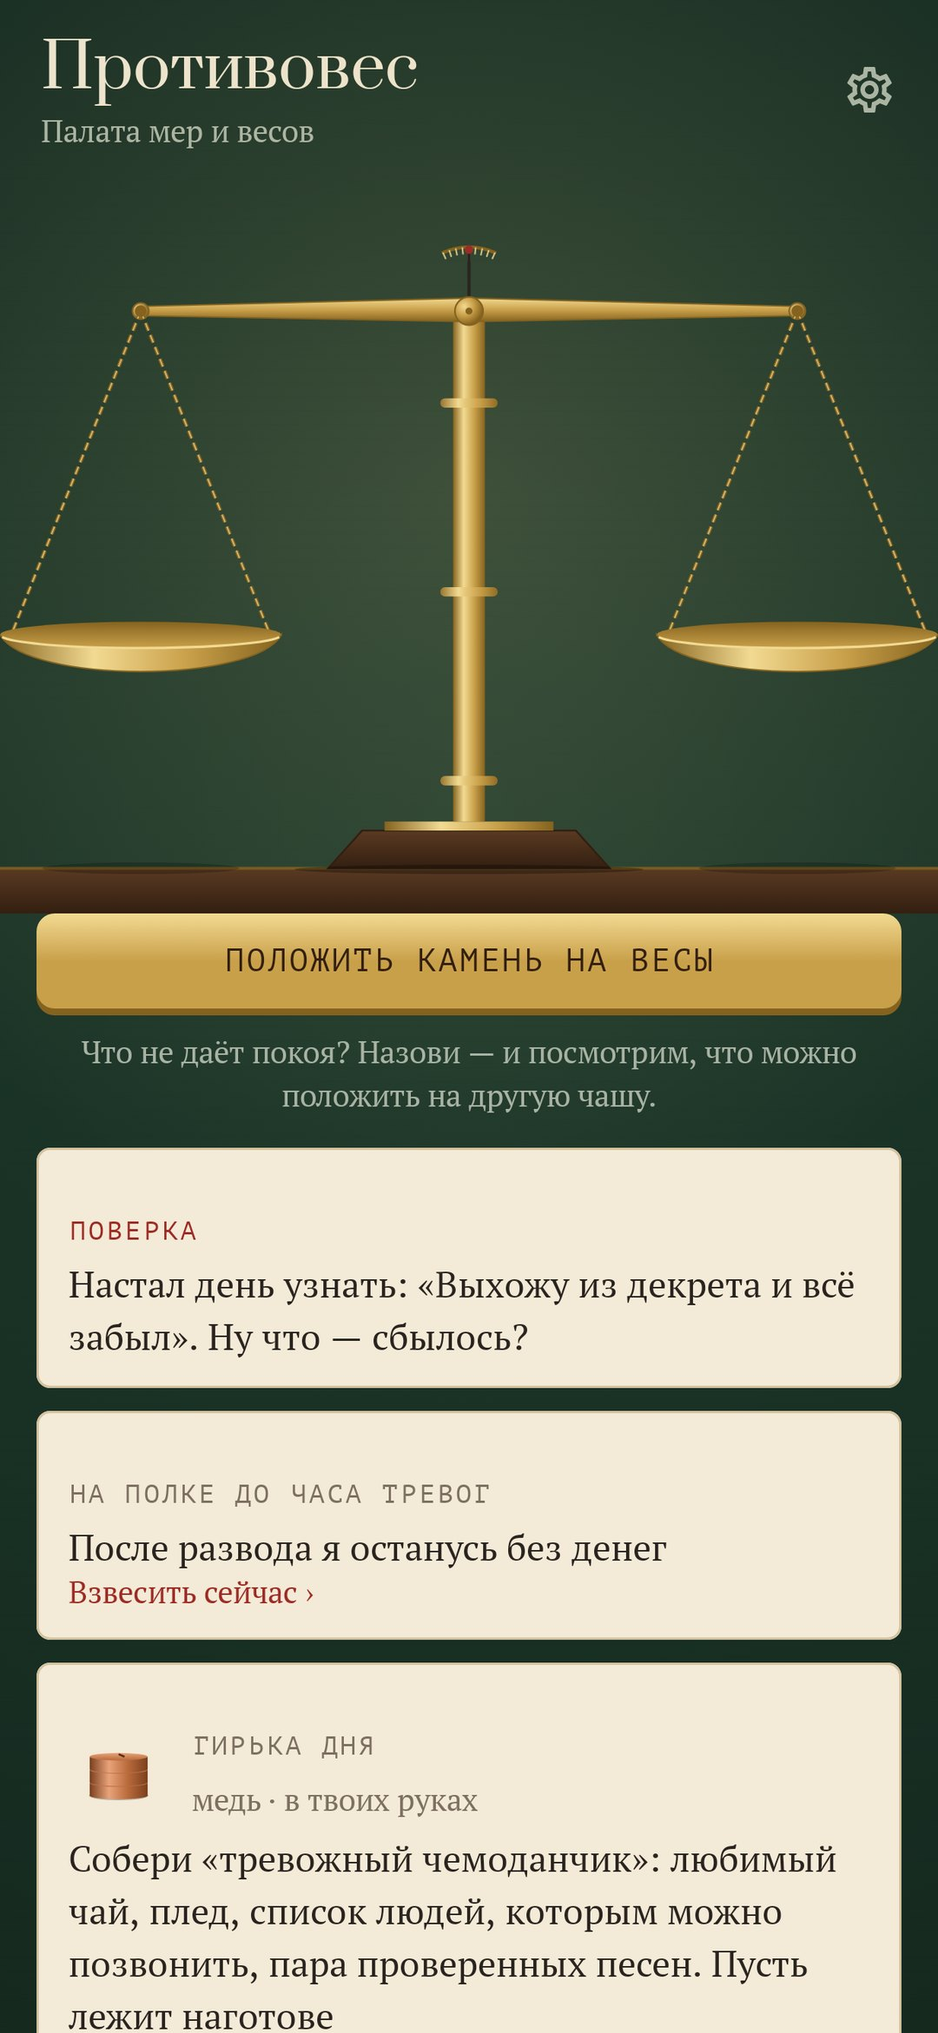
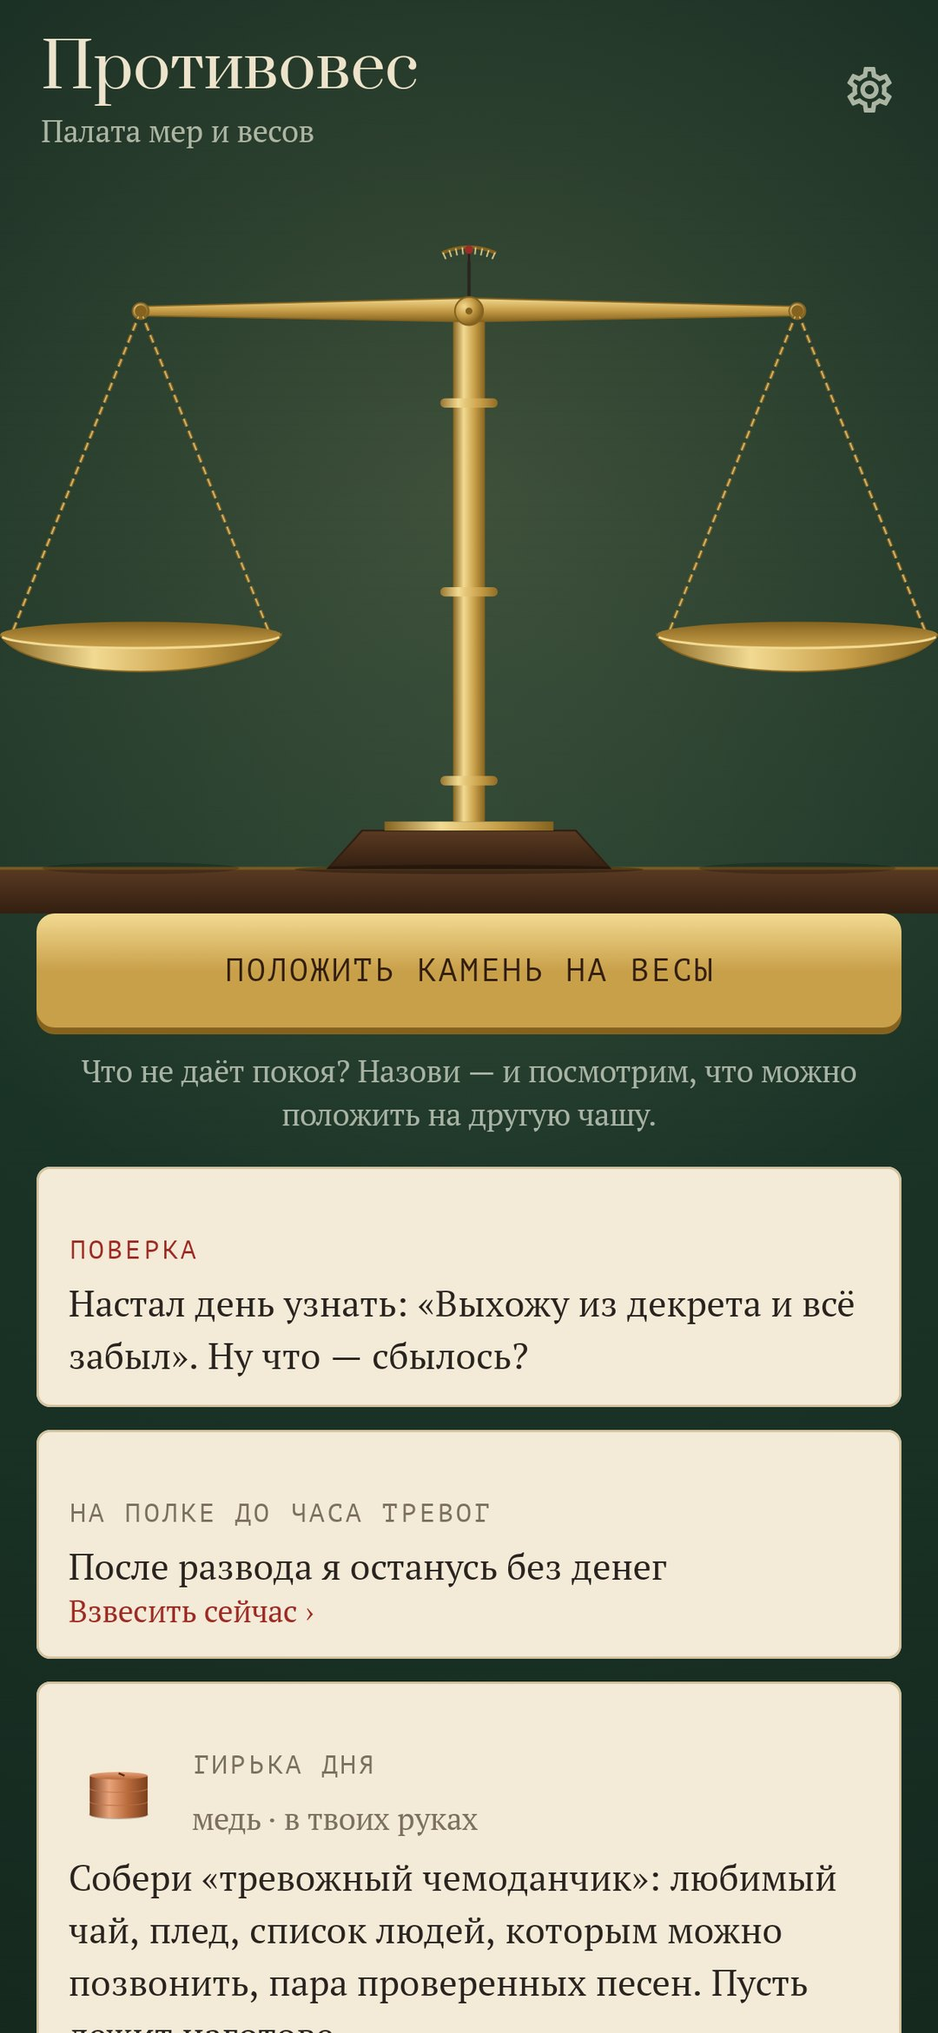
Fixes from the first run on a phone
- The demo no longer flickers through its seeded history on first launch, and shows the welcome pages first; settings can replay them.
- Buttons are one line and one height; the weighing panel keeps one height with its buttons pinned, so the scale doesn't jump.
- "Another weight" never turns into "Lift the stone" under the finger.
- An outweighed beam clearly tips; well steps start with a capital; a stone is always «положен»; ledger wording.
- Choosing a shelf hides the others so its worries start right below.

Changed region(s): [[0.0306, 0.4677, 0.9778, 1.0]]

diff --git a/app/src/main/java/app/counterweight/ui/scale/ScaleScreen.kt b/app/src/main/java/app/counterweight/ui/scale/ScaleScreen.kt
@@ -10,6 +10,8 @@ import androidx.compose.foundation.Canvas
 import androidx.compose.foundation.clickable
 import androidx.compose.foundation.layout.Arrangement
 import androidx.compose.foundation.layout.Column
+import androidx.compose.foundation.layout.ColumnScope
+import androidx.compose.foundation.layout.Spacer
 import androidx.compose.foundation.layout.Row
 import androidx.compose.foundation.layout.fillMaxSize
 import androidx.compose.foundation.layout.fillMaxWidth
@@ -224,7 +226,8 @@ private fun Weighing(h: Home, nav: Nav, ses: Session, onSession: (Session?) -> U
         Canvas(Modifier.fillMaxWidth().weight(1f)) {
             scale(tilt.value, look, stoneIn.value, shown.map { it.kind }, lastIn.value, h.night)
         }
-        Column(Modifier.fillMaxWidth().navigationBarsPadding().clip(RoundedCornerShape(topStart = 10.dp, topEnd = 10.dp)).paper().padding(16.dp)) {
+        // One height for every phase, so the scale above never jumps when the words below change.
+        Column(Modifier.fillMaxWidth().clip(RoundedCornerShape(topStart = 10.dp, topEnd = 10.dp)).paper().navigationBarsPadding().height(352.dp).padding(16.dp)) {
             when (ses.phase) {
                 Phase.HEFT -> Heft(h, ses, onSession, ::start)
                 Phase.WEIGH -> Reading(h, ses, shown.lastOrNull(), over, onNext = {
@@ -242,7 +245,7 @@ private fun Weighing(h: Home, nav: Nav, ses: Session, onSession: (Session?) -> U
 
 /** Before the stone goes down: how heavy is it? */
 @Composable
-private fun Heft(h: Home, ses: Session, onSession: (Session?) -> Unit, start: () -> Unit) {
+private fun ColumnScope.Heft(h: Home, ses: Session, onSession: (Session?) -> Unit, start: () -> Unit) {
     val w = h.w
     val c = LocalContext.current.container
     val toast = LocalToast.current
@@ -250,6 +253,7 @@ private fun Heft(h: Home, ses: Session, onSession: (Session?) -> Unit, start: ()
     Text("${ses.heft} · ${w.heft(ses.heft)}", style = T.Small)
     Slider(ses.heft.toFloat(), { onSession(ses.copy(heft = it.toInt().coerceIn(1, 10))) }, valueRange = 1f..10f, steps = 8,
         colors = SliderDefaults.colors(thumbColor = C.stoneDeep, activeTrackColor = C.stone, inactiveTrackColor = C.line, activeTickColor = C.paper, inactiveTickColor = C.muted))
+    Spacer(Modifier.weight(1f))
     Row(horizontalArrangement = Arrangement.spacedBy(8.dp)) {
         if (ses.stone == 0L) Btn(w.t("На полку до ${h.settings.worryHour.coerceAtLeast(0)}:00", "Shelve till ${h.settings.worryHour.coerceAtLeast(0)}:00"), Modifier.weight(1f), kind = BtnKind.GHOST) {
             val until = Bell.next(h.settings.worryHour.coerceAtLeast(0), System.currentTimeMillis(), h.zone)
@@ -263,10 +267,10 @@ private fun Heft(h: Home, ses: Session, onSession: (Session?) -> Unit, start: ()
 
 /** The weight just laid, its words, and what to do next. */
 @Composable
-private fun Reading(h: Home, ses: Session, cur: Shown?, over: Boolean, onNext: () -> Unit, onNotMine: (String) -> Unit, onDone: () -> Unit) {
+private fun ColumnScope.Reading(h: Home, ses: Session, cur: Shown?, over: Boolean, onNext: () -> Unit, onNotMine: (String) -> Unit, onDone: () -> Unit) {
     val w = h.w
     val c = LocalContext.current.container
-    if (cur == null) { Text(w.t("Кладу первую гирьку…", "Laying the first weight…"), style = T.Italic); Gap(60); return }
+    if (cur == null) { Text(w.t("Кладу первую гирьку…", "Laying the first weight…"), style = T.Italic); return }
     val kept = h.s.isKept(cur.key)
     Row(verticalAlignment = Alignment.CenterVertically) {
         WeightIcon(cur.kind, 34.dp)
@@ -275,12 +279,12 @@ private fun Reading(h: Home, ses: Session, cur: Shown?, over: Boolean, onNext: (
         Icon(if (kept) Icons.Filled.Favorite else Icons.Outlined.FavoriteBorder, w.t("В разновес", "Keep in the case"), tint = if (kept) C.wax else C.muted,
             modifier = Modifier.clip(RoundedCornerShape(20.dp)).clickable { c.write { repo.keep(cur.key, !kept) } }.padding(8.dp).size(22.dp))
     }
-    Column(Modifier.fillMaxWidth().height(170.dp).verticalScroll(rememberScrollState())) {
+    Column(Modifier.fillMaxWidth().weight(1f).verticalScroll(rememberScrollState())) {
         if (cur.kind == Kind.AFTER && cur.text.contains('→')) {
             for ((i, step) in cur.text.split('→').map { it.trim() }.withIndex()) {
                 Row(Modifier.padding(start = (i * 10).dp, top = 2.dp)) {
                     Text(if (i == 0) "▸ " else "↳ ", style = T.Body.copy(color = C.brassDeep))
-                    Text(step, style = T.Body)
+                    Text(step.replaceFirstChar { it.uppercase() }, style = T.Body)
                 }
             }
         } else Text(cur.text, style = T.Engraving)
@@ -291,27 +295,30 @@ private fun Reading(h: Home, ses: Session, cur: Shown?, over: Boolean, onNext: (
         style = T.Small.copy(color = C.wax), modifier = Modifier.padding(bottom = 8.dp))
     Row(horizontalArrangement = Arrangement.spacedBy(8.dp)) {
         if (cur.kind != Kind.LEDGER && !cur.key.startsWith("own:")) Btn(w.t("Не про меня", "Not for me"), Modifier.weight(1f), kind = BtnKind.GHOST) { onNotMine(cur.key) }
-        if (over) Btn(w.t("Ещё", "More"), Modifier.weight(.8f), kind = BtnKind.GHOST) { onNext() }
-        Btn(if (over) w.t("Снять камень", "Lift the stone") else w.t("Ещё гирьку", "Another weight"), Modifier.weight(1.3f), kind = if (over) BtnKind.WAX else BtnKind.BRASS) { if (over) onDone() else onNext() }
+        // «Another weight» never moves or changes meaning, so quick taps can't lift the stone by accident.
+        if (over) Btn(w.t("Снять камень", "Lift it"), Modifier.weight(1.1f), kind = BtnKind.WAX) { onDone() }
+        Btn(if (over) w.t("Ещё", "More") else w.t("Ещё гирьку", "Another weight"), Modifier.weight(if (over) .8f else 1.3f)) { onNext() }
     }
 }
 
 /** After the beam tipped: how heavy now, when it'll be known, and where the stone goes. */
 @Composable
-private fun Done(h: Home, nav: Nav, ses: Session, close: () -> Unit) {
+private fun ColumnScope.Done(h: Home, nav: Nav, ses: Session, close: () -> Unit) {
     val w = h.w
     val c = LocalContext.current.container
     val toast = LocalToast.current
     var after by remember { mutableIntStateOf((ses.heft / 2).coerceAtLeast(1)) }
     var due by remember { mutableStateOf<Int?>(7) }
+    Column(Modifier.weight(1f).verticalScroll(rememberScrollState())) {
     Text(w.t("А теперь — насколько тяжело?", "And now, how heavy is it?"), style = T.Heading)
     Text("${ses.heft} → $after · ${if (after == 0) w.t("пух", "a feather") else w.heft(after)}", style = T.Small)
     Slider(after.toFloat(), { after = it.toInt() }, valueRange = 0f..10f, steps = 9,
         colors = SliderDefaults.colors(thumbColor = C.stoneDeep, activeTrackColor = C.stone, inactiveTrackColor = C.line, activeTickColor = C.paper, inactiveTickColor = C.muted))
     Text(w.t("Когда станет ясно, сбылось ли?", "When will you know if it came true?"), style = T.BodyB)
-    Flow(Modifier.padding(top = 6.dp, bottom = 12.dp)) {
+    Flow(Modifier.padding(top = 6.dp, bottom = 8.dp)) {
         for ((d, label) in listOf(1 to w.t("завтра", "tomorrow"), 3 to w.t("через 3 дня", "in 3 days"), 7 to w.t("через неделю", "in a week"), 30 to w.t("через месяц", "in a month"), null to w.t("не узнать", "can't tell")))
             Chip(label, due == d) { due = d }
+    }
     }
     Row(horizontalArrangement = Arrangement.spacedBy(8.dp)) {
         Btn(w.t("Колодец", "The well"), Modifier.weight(1f), kind = BtnKind.GHOST) { nav.push(Overlay.Well(ses.worry, ses.sphere)) }

diff --git a/app/src/main/java/app/counterweight/ui/components/Components.kt b/app/src/main/java/app/counterweight/ui/components/Components.kt
@@ -23,7 +23,9 @@ import androidx.compose.foundation.layout.padding
 import androidx.compose.foundation.layout.statusBarsPadding
 import androidx.compose.foundation.rememberScrollState
 import androidx.compose.foundation.shape.RoundedCornerShape
+import androidx.compose.foundation.text.BasicText
 import androidx.compose.foundation.text.BasicTextField
+import androidx.compose.foundation.text.TextAutoSize
 import androidx.compose.foundation.text.KeyboardOptions
 import androidx.compose.foundation.verticalScroll
 import androidx.compose.material3.Text
@@ -49,6 +51,7 @@ import androidx.compose.ui.text.input.KeyboardCapitalization
 import androidx.compose.ui.text.style.TextAlign
 import androidx.compose.ui.unit.Dp
 import androidx.compose.ui.unit.dp
+import androidx.compose.ui.unit.sp
 import app.counterweight.ui.theme.C
 import app.counterweight.ui.theme.T
 import kotlinx.coroutines.delay
@@ -99,9 +102,16 @@ fun Btn(text: String, modifier: Modifier = Modifier, kind: Kind = Kind.BRASS, en
                 },
             )
             .clickable(enabled = enabled, onClick = onClick)
-            .padding(horizontal = 16.dp, vertical = 13.dp),
+            .height(50.dp)
+            .padding(horizontal = 12.dp),
         contentAlignment = Alignment.Center,
-    ) { Text(text.uppercase(), style = T.Button.copy(color = if (enabled) fg else C.muted), textAlign = TextAlign.Center) }
+    ) {
+        // Every button is one line and one height: a long label shrinks a little instead of wrapping.
+        BasicText(
+            text.uppercase(), style = T.Button.copy(color = if (enabled) fg else C.muted, textAlign = TextAlign.Center), maxLines = 1,
+            autoSize = TextAutoSize.StepBased(minFontSize = 10.sp, maxFontSize = T.Button.fontSize, stepSize = .5.sp),
+        )
+    }
 }
 
 @Composable

diff --git a/app/src/main/java/app/counterweight/ui/shelves/StoneSheet.kt b/app/src/main/java/app/counterweight/ui/shelves/StoneSheet.kt
@@ -73,7 +73,7 @@ fun StoneSheet(h: Home, id: Long, nav: Nav) {
             }
         }
         Text(h.title(st), style = T.Heading)
-        Text(w.t("Положен{|а} ", "Put down on ") + w.dateY(st.at.date(h.zone)) + " · " + w.t("тяжесть", "heft") + " ${st.heft}" + (st.after?.let { " → $it" } ?: ""), style = T.Small)
+        Text(w.t("Положен ", "Put down on ") + w.dateY(st.at.date(h.zone)) + " · " + w.t("тяжесть", "heft") + " ${st.heft}" + (st.after?.let { " → $it" } ?: ""), style = T.Small)
         st.worry?.let { _ ->
             Text(
                 if (polish >= Rules.PEBBLE) w.t("Эта тревога перевешена ${w.n(polish, "раз", "раза", "раз", "", "")} — камень стал галькой.", "This worry has been outweighed $polish times. The stone is a pebble now.")
@@ -146,7 +146,7 @@ fun WellSheet(h: Home, worry: String?, sphere: app.counterweight.domain.Sphere, 
             for ((i, step) in chain.take(depth).withIndex()) {
                 Column(Modifier.padding(start = (i * 14).dp, bottom = 8.dp)) {
                     if (i > 0) Text(w.t("и что тогда?", "and then what?"), style = T.Label.copy(color = C.brassDeep))
-                    Text(step, style = if (i == chain.lastIndex) T.BodyB else T.Body)
+                    Text(step.replaceFirstChar { it.uppercase() }, style = if (i == chain.lastIndex) T.BodyB else T.Body)
                 }
             }
             Gap(8)

diff --git a/app/src/main/java/app/counterweight/data/DemoSeed.kt b/app/src/main/java/app/counterweight/data/DemoSeed.kt
@@ -14,6 +14,7 @@ import kotlin.random.Random
 /**
  * The demo build's past: about two months of weighings played through the real engine with a wound-back
  * clock, so the shelves, the case and the ledger look lived in. One stone waits on the shelf, one is due today.
+ * The welcome pages still come first, as on a real first launch.
  */
 object DemoSeed {
     /** What this person worries about most, so a few stones get worn to pebbles. */
@@ -24,10 +25,11 @@ object DemoSeed {
         if (repo.refresh().stones.isNotEmpty()) return
         val cat = c.catalog
         if (cat.worries.isEmpty()) return
+        repo.hold = true
         val ru = c.app.localized().ru
         c.settings.update {
             it.copy(
-                onboarded = true, gender = Gender.HE, salt = 7,
+                salt = 7,
                 props = if (ru) "Аня, которая всегда возьмёт трубку\nЯ умею начинать заново\nРуки и голова\nДрузья в Казани" else "Anna, who always picks up\nI know how to start again\nMy hands and my head\nFriends in Leeds",
             )
         }
@@ -83,6 +85,7 @@ object DemoSeed {
         val w2 = habits.last()
         repo.put(w2.key, "", w2.sphere, 6, shelf = at(today, 18, 0))
         repo.clock = System::currentTimeMillis
+        repo.hold = false
         repo.refresh()
     }
 }

diff --git a/app/src/main/java/app/counterweight/ui/Words.kt b/app/src/main/java/app/counterweight/ui/Words.kt
@@ -55,8 +55,8 @@ class Words(val ru: Boolean, val gender: Gender?) {
 
     /** The weight cast from the person's own record. */
     fun ledger(r: Engine.Record): String = if (ru) {
-        val base = "Ты провер{ил|ила} ${n(r.checked, "тревогу", "тревоги", "тревог", "", "")}. Не сбыл${plural(r.not, "ась", "ись", "ись")} — ${r.not}."
-        g(if (r.came == 0) "$base Ни одна." else "$base Из сбывшихся с ${r.survived} из ${r.came} ты справил{ся|ась}. Это твоя статистика, не чужая.")
+        val base = "Ты провер{ил|ила} ${n(r.checked, "тревогу", "тревоги", "тревог", "", "")}. Не сбылось: ${r.not}."
+        g(if (r.came == 0) "$base Ни одной сбывшейся." else "$base Из сбывшихся ты справил{ся|ась} с ${r.survived} из ${r.came}. Это твоя статистика, не чужая.")
     } else {
         val base = "Of the ${r.checked} worries you checked, ${r.not} didn't come true."
         if (r.came == 0) "$base Not one." else "$base Of those that did, you got through ${r.survived} of ${r.came}. These are your numbers, nobody else's."

diff --git a/app/src/main/java/app/counterweight/ui/scale/PickSheet.kt b/app/src/main/java/app/counterweight/ui/scale/PickSheet.kt
@@ -82,11 +82,16 @@ fun PickSheet(h: Home, nav: Nav) {
         }
         if (query.isBlank()) {
             Label(w.t("Или выбрать на полках", "Or pick from the shelves"))
-            Flow {
-                for (sp in Sphere.entries) Chip("${w.sphere(sp)} · ${h.catalog.worriesOf(sp).size}", sphere == sp) { sphere = if (sphere == sp) null else sp }
-            }
-            sphere?.let { sp ->
-                Gap(10)
+            val sp = sphere
+            if (sp == null) Flow {
+                for (x in Sphere.entries) Chip("${w.sphere(x)} · ${h.catalog.worriesOf(x).size}", false) { sphere = x }
+            } else {
+                // One shelf open: the others step aside so its worries start right here.
+                Flow {
+                    Chip(w.t("‹ все полки", "‹ all shelves"), false) { sphere = null }
+                    Chip("${w.sphere(sp)} · ${h.catalog.worriesOf(sp).size}", true) { sphere = null }
+                }
+                Gap(6)
                 for (wr in h.catalog.worriesOf(sp)) WorryRow(h, wr) { choose(wr) }
             }
         }

diff --git a/app/src/main/java/app/counterweight/ui/onboarding/Onboarding.kt b/app/src/main/java/app/counterweight/ui/onboarding/Onboarding.kt
@@ -88,7 +88,7 @@ fun Onboarding(w: Words, settings: Settings) {
                         Text(line, style = body)
                     }
                 }
-                Text(w.t("Тысячи тревог и десятки тысяч гирек — без интернета, без рекламы, без аккаунта.", "Thousands of worries and tens of thousands of weights. No internet, no ads, no account."), style = T.Small.copy(color = C.chalkMuted))
+                Text(w.t("Больше тысячи тревог и почти шестнадцать тысяч гирек — без интернета, без рекламы, без аккаунта.", "Over a thousand worries and nearly sixteen thousand weights. No internet, no ads, no account."), style = T.Small.copy(color = C.chalkMuted))
             }
             else -> {
                 Text(w.t("Почти всё", "Almost there"), style = T.Title)

diff --git a/app/src/main/java/app/counterweight/ui/ledger/LedgerScreen.kt b/app/src/main/java/app/counterweight/ui/ledger/LedgerScreen.kt
@@ -58,7 +58,7 @@ fun LedgerScreen(h: Home, nav: Nav) {
                 Label(w.t("Настал день узнать", "The day has come"), color = C.brassHi)
                 for (st in due) Card(Modifier.padding(bottom = 8.dp)) {
                     Text(h.title(st), style = T.BodyB)
-                    Text(w.t("Положен{|а} ", "Put down ") + w.date(st.at.date(h.zone)) + " · " + w.t("тяжесть", "heft") + " ${st.heft}", style = T.Small)
+                    Text(w.t("Положен ", "Put down ") + w.date(st.at.date(h.zone)) + " · " + w.t("тяжесть", "heft") + " ${st.heft}", style = T.Small)
                     Gap(4)
                     Text(w.t("Ну что — сбылось?", "So, did it happen?"), style = T.Body)
                     Flow(Modifier.padding(top = 6.dp)) {

diff --git a/app/src/main/java/app/counterweight/ui/shelves/ShelvesScreen.kt b/app/src/main/java/app/counterweight/ui/shelves/ShelvesScreen.kt
@@ -90,7 +90,7 @@ private fun Shelf(h: Home, list: List<Stone>, nav: Nav) {
                 Column(Modifier.width(78.dp).clickable { nav.push(Overlay.StoneDetail(st.id)) }, horizontalAlignment = Alignment.CenterHorizontally) {
                     Canvas(Modifier.size(70.dp)) {
                         val look = h.look(st)
-                        val r = size.minDimension * (.18f + look.heft * .022f)
+                        val r = size.minDimension * (.24f + look.heft * .022f)
                         stone(look, Offset(size.width / 2, size.height - r * .8f), r)
                         // A wax dot: this stone has a day of checking ahead.
                         if (st.due != null && st.outcome == null) drawCircle(C.wax, 3.5f * density, Offset(size.width / 2 + r * .85f, size.height - r * 1.55f))

diff --git a/app/src/main/java/app/counterweight/domain/Model.kt b/app/src/main/java/app/counterweight/domain/Model.kt
@@ -139,8 +139,9 @@ object Rules {
     /** What a stone weighs on the pan: a little more than its heft, so a light one still needs two weights. */
     fun mass(heft: Int) = heft * 2 + 1
 
-    /** Beam tilt for a difference of mass, in degrees; positive is the stone's side down. */
-    fun tilt(stone: Int, weights: Int): Float = ((stone - weights) * 2.2f).coerceIn(-14f, 14f)
+    /** Beam tilt for a difference of mass, in degrees; positive is the stone's side down. Once outweighed it clearly tips. */
+    fun tilt(stone: Int, weights: Int): Float =
+        if (weights > stone) -(6f + (weights - stone) * 1.5f).coerceAtMost(14f) else ((stone - weights) * 1.6f).coerceAtMost(14f)
 }
 
 class State(val stones: List<Stone>, val laid: List<Laid>, val marks: List<Mark>, val engraved: List<Engraved>) {

diff --git a/app/src/main/java/app/counterweight/data/Repo.kt b/app/src/main/java/app/counterweight/data/Repo.kt
@@ -26,7 +26,10 @@ class Repo(private val db: ChamberDb, val catalog: Catalog) {
     var clock: () -> Long = System::currentTimeMillis
     var zone: ZoneId = ZoneId.systemDefault()
 
-    suspend fun refresh(): State = State(dao.stones(), dao.laid(), dao.marks(), dao.engraved()).also { _state.value = it }
+    /** While true, changes aren't shown: the demo seed replays months without the screen flickering through them. */
+    @Volatile var hold = false
+
+    suspend fun refresh(): State = State(dao.stones(), dao.laid(), dao.marks(), dao.engraved()).also { if (!hold) _state.value = it }
 
     private suspend fun <T> op(block: suspend (State, Long) -> T): T = mutex.withLock {
         val s = refresh()

diff --git a/app/src/main/java/app/counterweight/CounterweightApp.kt b/app/src/main/java/app/counterweight/CounterweightApp.kt
@@ -39,9 +39,12 @@ class CounterweightApp : Application() {
         super.onCreate()
         container = AppContainer(this)
         Bell.channel(this)
+        // The demo shows nothing until its history is in place, so the first screen doesn't jump.
+        if (BuildConfig.DEMO) container.repo.hold = true
         container.scope.launch {
             container.catalog
             if (BuildConfig.DEMO) DemoSeed.seedIfEmpty(container)
+            container.repo.hold = false
             container.repo.refresh()
             container.sfx.load()
         }
